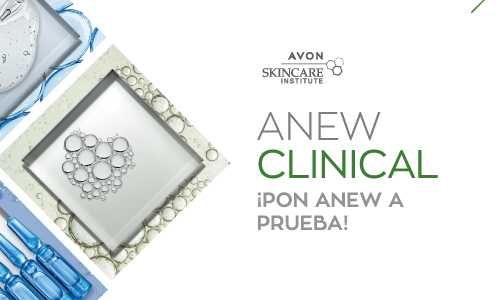
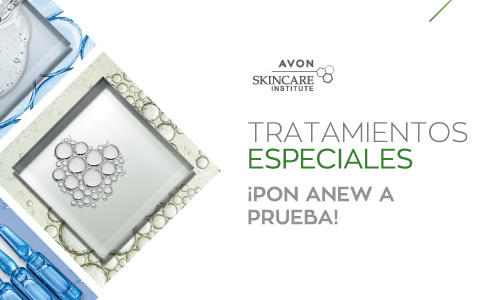
Push

diff --git a/assets/html/anew.html b/assets/html/anew.html
@@ -1445,7 +1445,7 @@
                                 <img src="../img/moreClinical.jpg" class="w-100">
                             </div>
                             <div class="av-card-text">
-                                <h4 class="av-card-title">Anew Clinical</h4>
+                                <h4 class="av-card-title">Tratamiento especiales</h4>
                                 <span class="av-button-tertiary">visitar</span>
                             </div>
                         </div>
